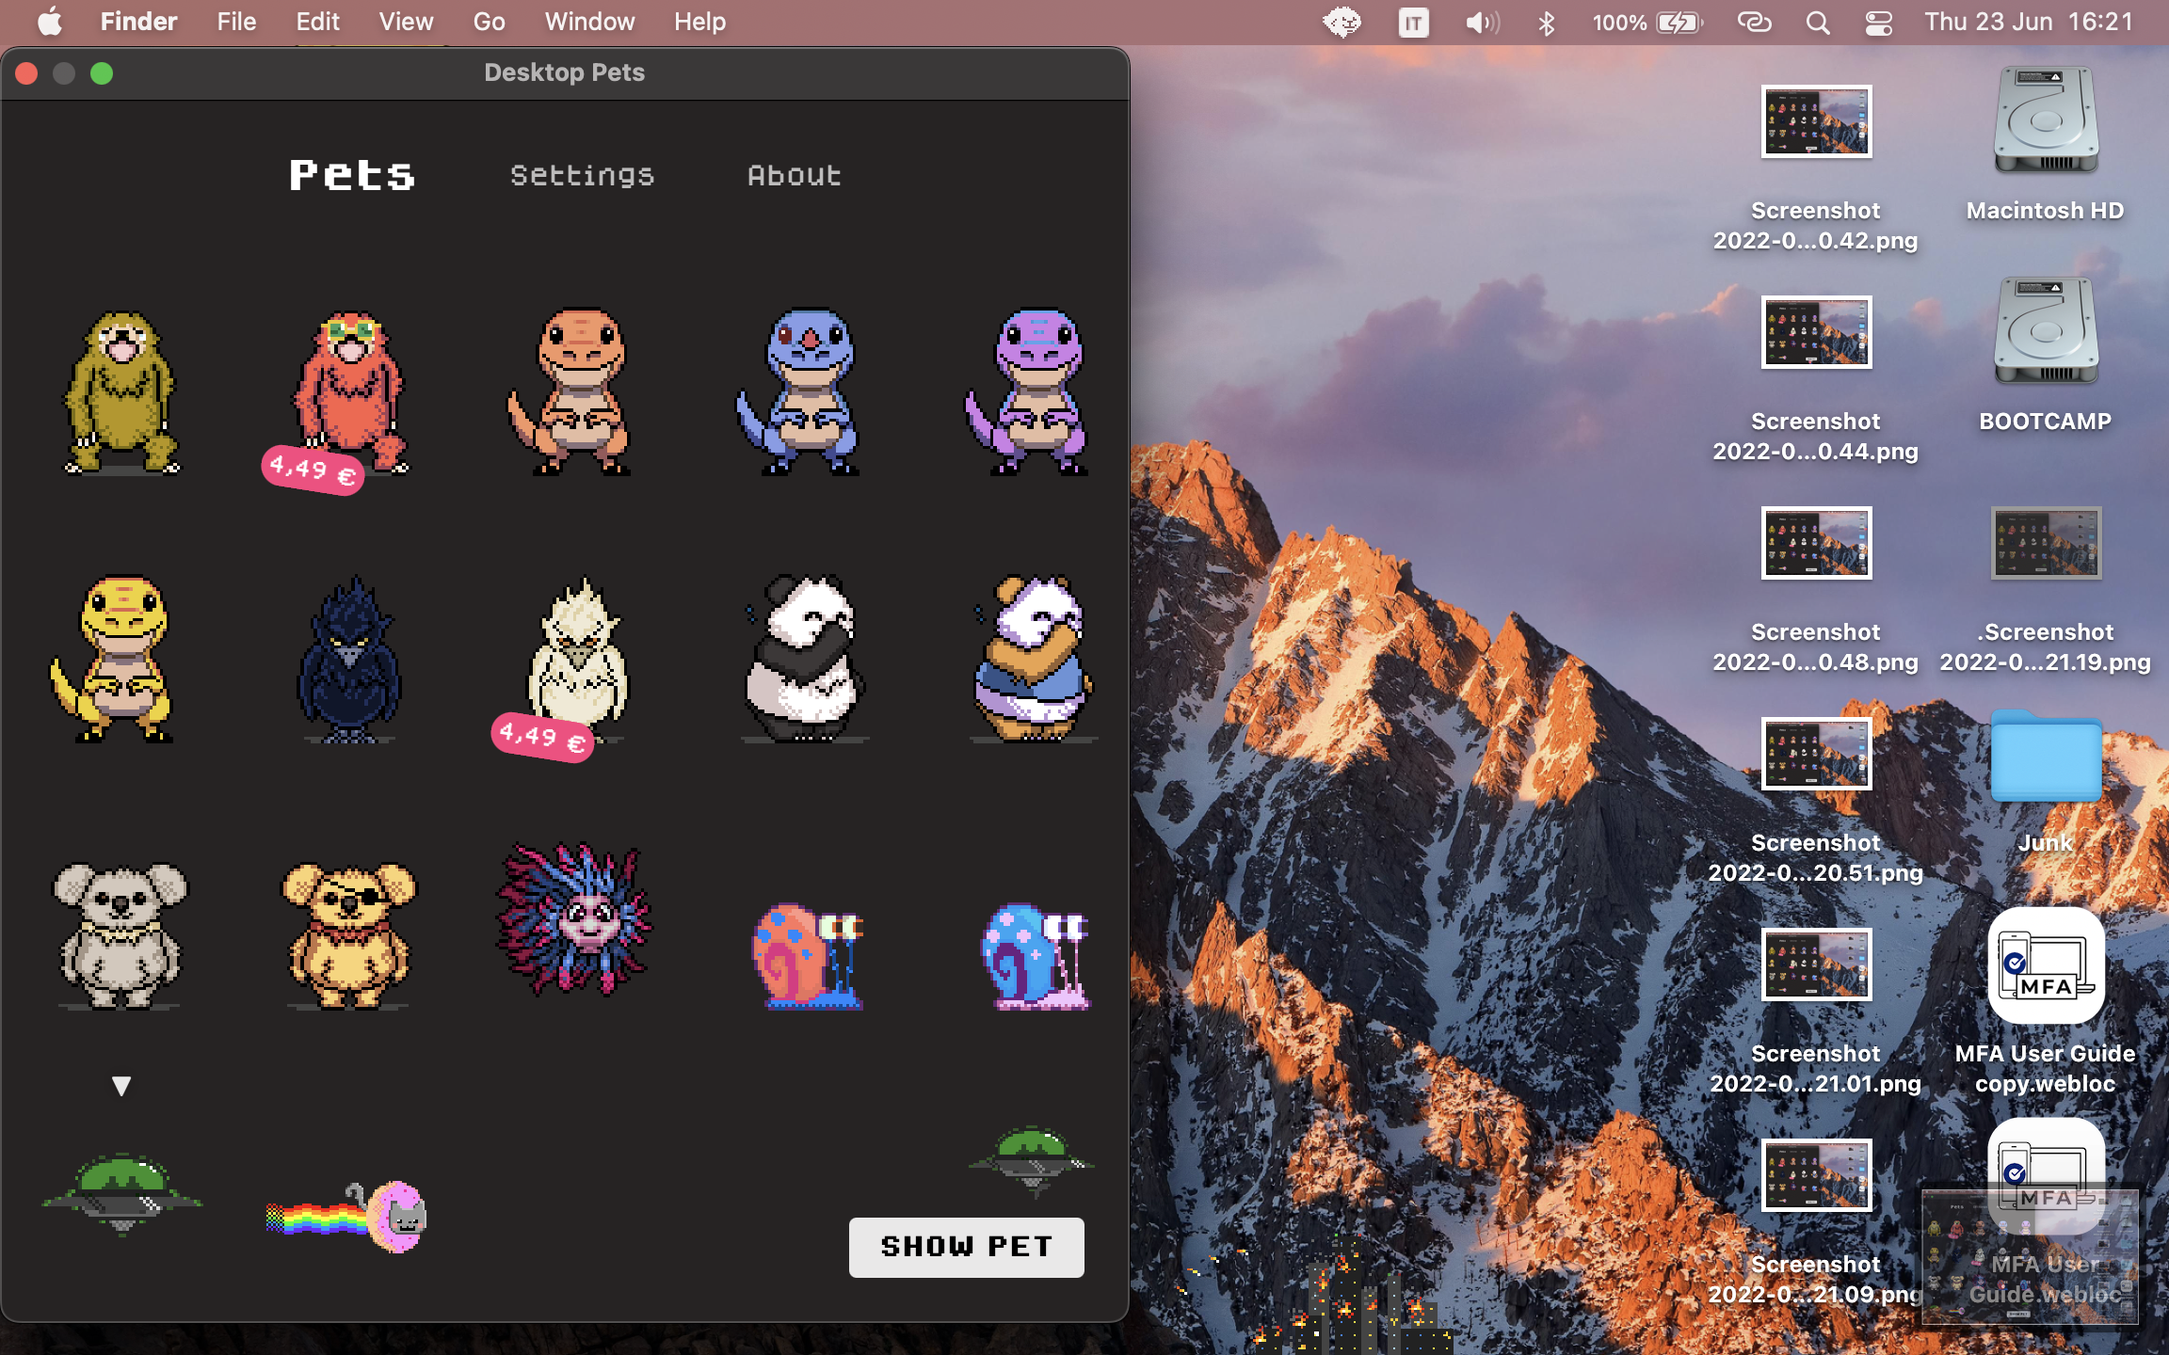
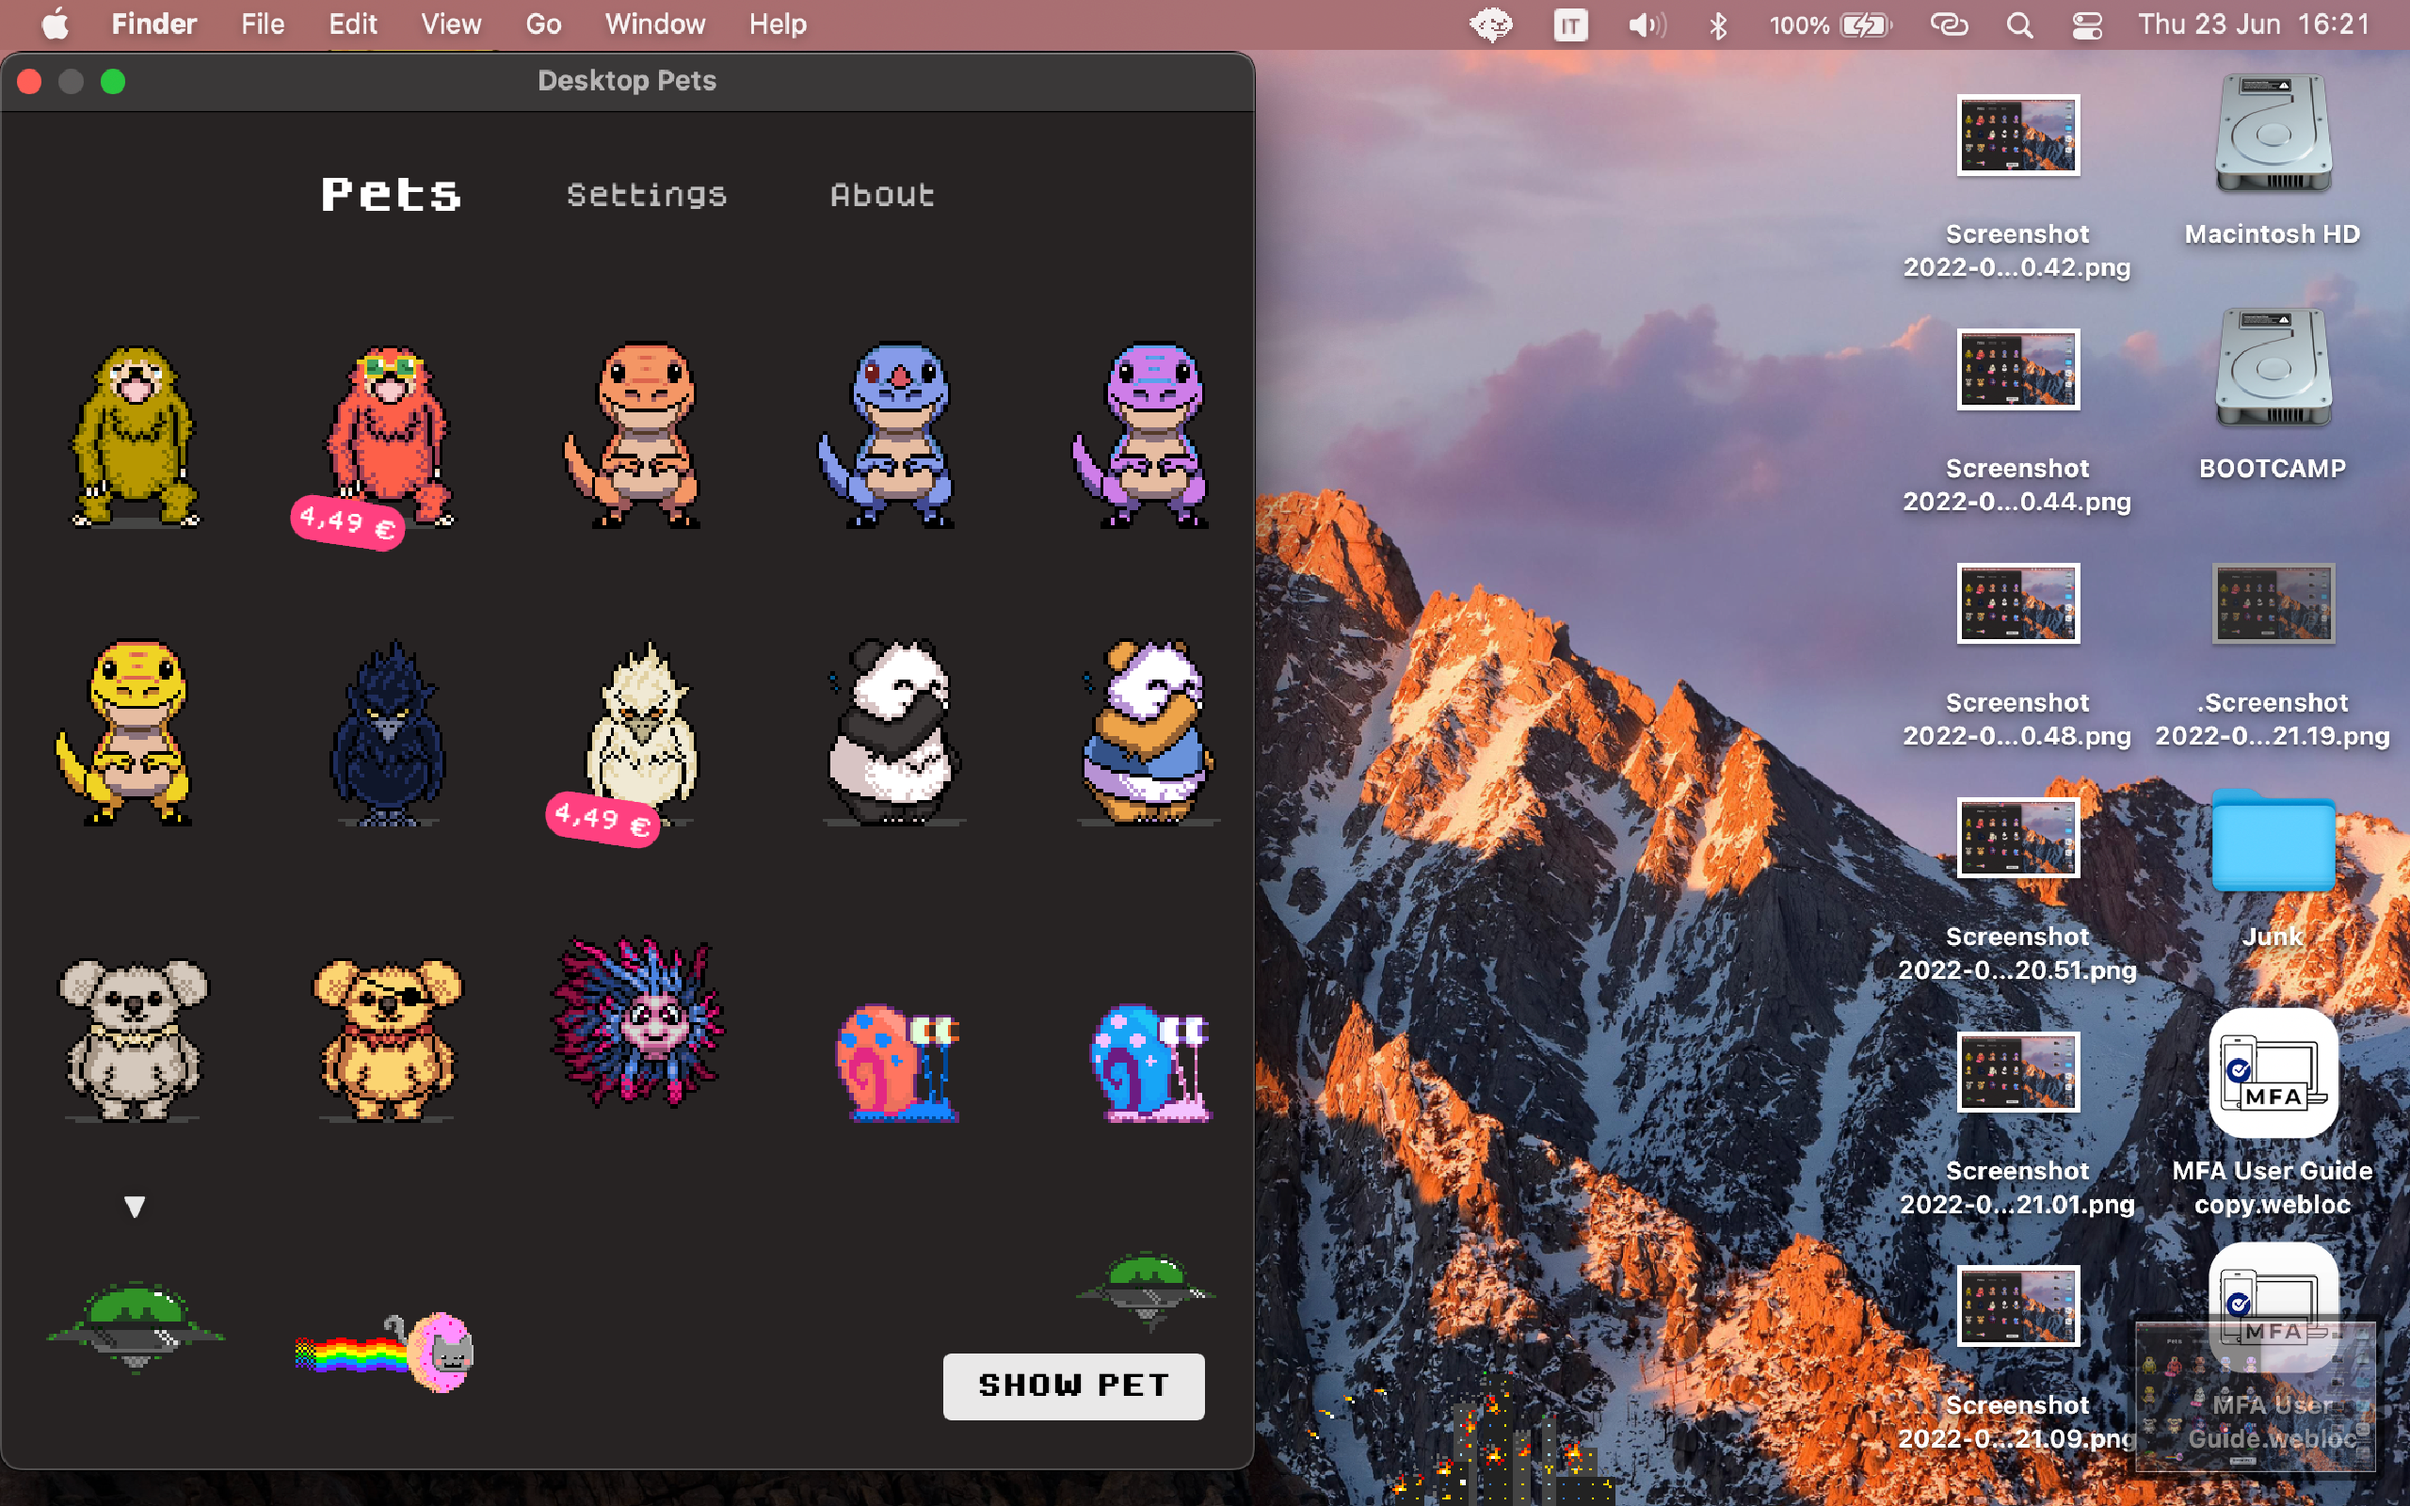
Added ufo portal animation, updated gallery with screenshots of the proper size

diff --git a/Pets/Sources/Pets/Species/Ufo.swift b/Pets/Sources/Pets/Species/Ufo.swift
@@ -14,7 +14,8 @@ extension Pet {
                 trigger: .on(spot: .horizontalCenter),
                 possibleAnimations: [
                     .bombing,
-                    .landing
+                    .landing,
+                    .exitViaPortal
                 ]
             )
         ],
@@ -31,9 +32,14 @@ private extension EntityAnimation {
     static let bombing = EntityAnimation(
         id: "bombing",
         size: CGSize(width: 4, height: 2),
-        position: .fromEntityBottomLeft,
         chance: 0.1
     )
     
     static let landing = EntityAnimation(id: "landing", chance: 0.2)
+    
+    static let exitViaPortal = EntityAnimation(
+        id: "exit_portal",
+        size: CGSize(width: 2, height: 1),
+        chance: 0.2
+    )
 }

diff --git a/Sources/OnScreen/OnScreenEvents.swift b/Sources/OnScreen/OnScreenEvents.swift
@@ -15,7 +15,7 @@ extension OnScreenViewModel {
     // MARK: - Ufo Abduction
     
     private func scheduleUfoAbduction() {
-        state.schedule(every: .timeOfDay(hour: 12, minute: 38)) { [weak self] _ in
+        state.schedule(every: .timeOfDay(hour: 22, minute: 30)) { [weak self] _ in
             guard let env = self, let pet = env.anyPet else { return }
             animateUfoAbduction(of: pet, in: env.state) {
                 DispatchQueue.main.asyncAfter(deadline: .now() + 15) {

diff --git a/InAppPurchases/Sources/InAppPurchases/PricingService.swift b/InAppPurchases/Sources/InAppPurchases/PricingService.swift
@@ -29,7 +29,7 @@ public class PricingService: ObservableObject {
         if let apiKey = revenueCatApiKey() {
             Purchases.configure(withAPIKey: apiKey)
             Purchases.logLevel = .warn
-            isAvailable = false
+            isAvailable = true
         }
         purchased = cachedPurchases.components(separatedBy: ",")
         Task { await loadPrices() }
